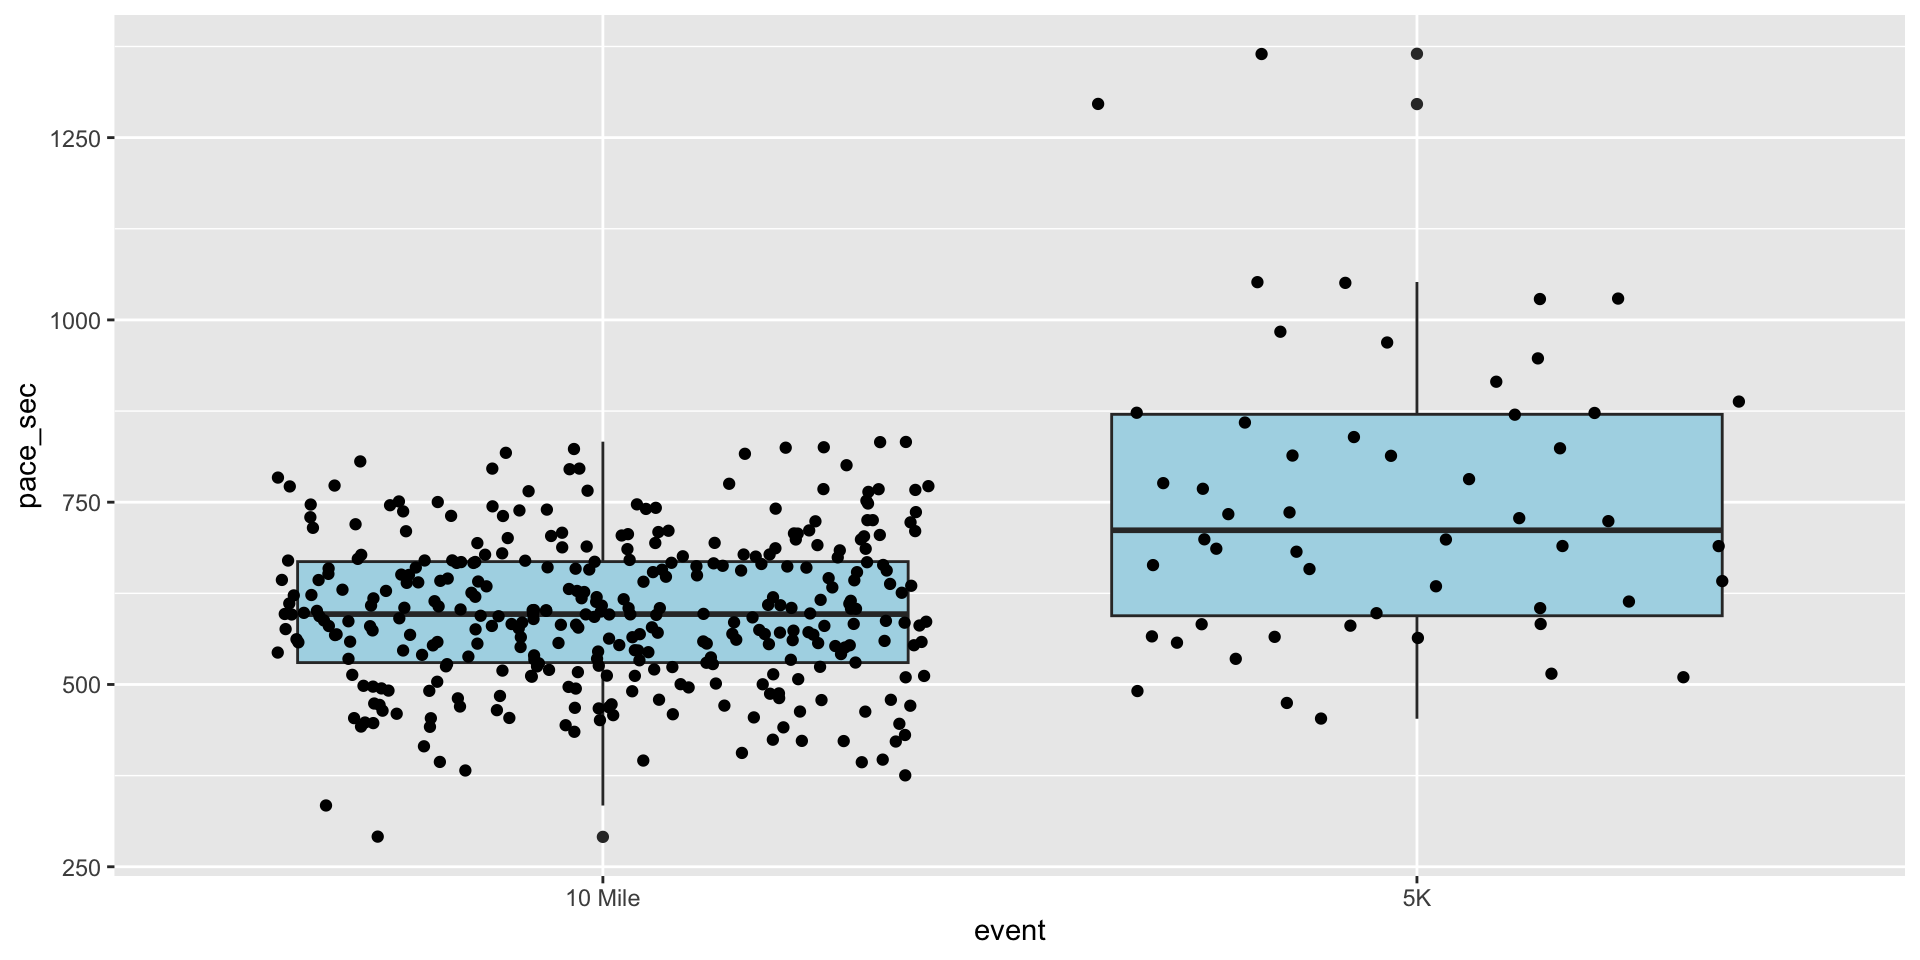
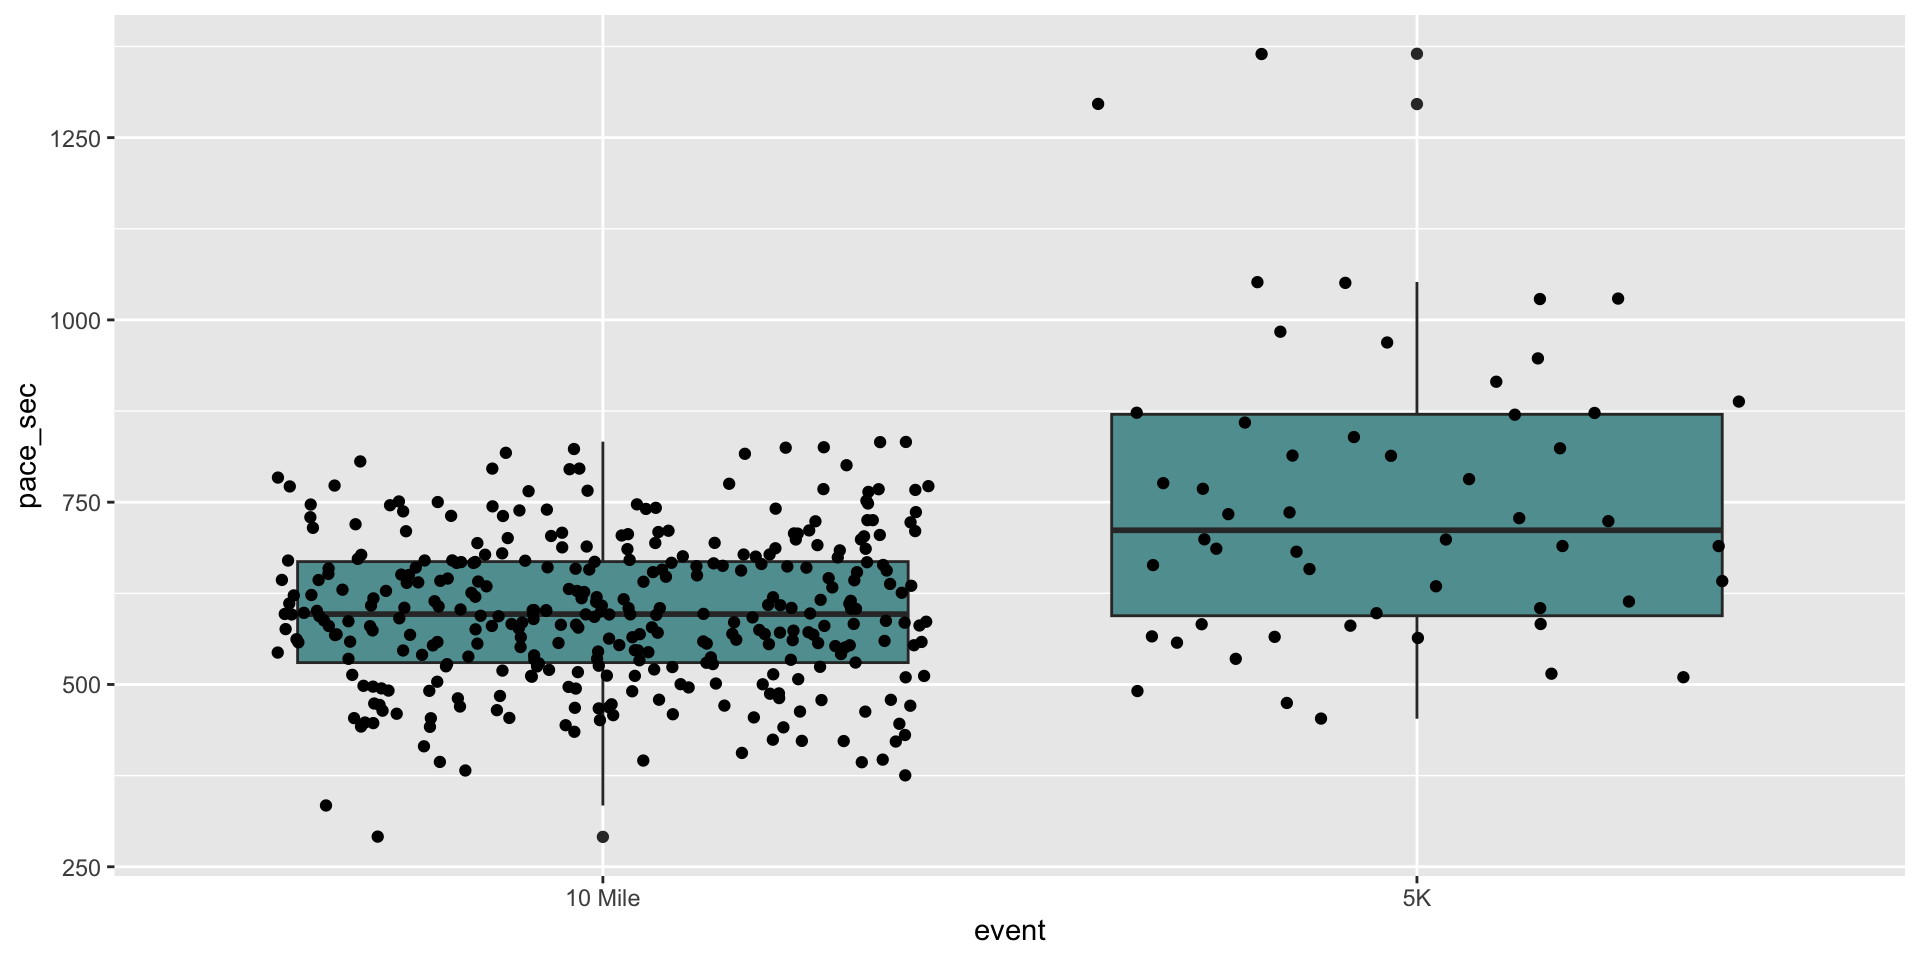
changed geom_stat to geom_point summary

Changed region(s): [[0.5625, 0.4062, 0.9062, 0.6562], [0.1562, 0.5625, 0.5, 0.6875]]

diff --git a/getting_started_fall_2026/Session_5.html b/getting_started_fall_2026/Session_5.html
@@ -456,17 +456,15 @@ S. Kelly | Scholar Support and Data Services | Fall 2026
 <h2>New Function: summarize</h2>
 <p>Be careful! The <code>summarize()</code> function is not the same as the <code>summary()</code> function from Base R. <code>summarize()</code> is similar to the <code>mutate()</code> function. Both create a new variable, but whereas <code>mutate()</code> creates a variable for every row, <code>summarize()</code> creates a variable only for the groups specified in the <code>group_by()</code> function.</p>
 <div class="cell">
-<div class="sourceCode cell-code" id="cb6"><pre class="sourceCode numberSource r number-lines code-with-copy"><code class="sourceCode r"><span id="cb6-1"><a href=""></a><span class="fu">set.seed</span>(<span class="dv">7834</span>)</span>
-<span id="cb6-2"><a href=""></a>run17 <span class="sc">|&gt;</span> </span>
-<span id="cb6-3"><a href=""></a>  <span class="fu">slice_sample</span>(<span class="at">n =</span> <span class="dv">400</span>) <span class="sc">|&gt;</span></span>
-<span id="cb6-4"><a href=""></a>  <span class="fu">group_by</span>(event) <span class="sc">|&gt;</span> </span>
-<span id="cb6-5"><a href=""></a>  <span class="fu">summarize</span>(<span class="at">event_means =</span> <span class="fu">mean</span>(pace_sec, <span class="at">na.rm =</span> T))</span></code><button title="Copy to Clipboard" class="code-copy-button"><i class="bi"></i></button></pre></div>
+<div class="sourceCode cell-code" id="cb6"><pre class="sourceCode numberSource r number-lines code-with-copy"><code class="sourceCode r"><span id="cb6-1"><a href=""></a>run17 <span class="sc">|&gt;</span> </span>
+<span id="cb6-2"><a href=""></a>  <span class="fu">group_by</span>(event) <span class="sc">|&gt;</span> </span>
+<span id="cb6-3"><a href=""></a>  <span class="fu">summarize</span>(<span class="at">event_means =</span> <span class="fu">mean</span>(pace_sec, <span class="at">na.rm =</span> T))</span></code><button title="Copy to Clipboard" class="code-copy-button"><i class="bi"></i></button></pre></div>
 <div class="cell-output cell-output-stdout">
 <pre><code># A tibble: 2 × 2
   event   event_means
   &lt;chr&gt;         &lt;dbl&gt;
-1 10 Mile        587.
-2 5K             778.</code></pre>
+1 10 Mile        586.
+2 5K             763.</code></pre>
 </div>
 </div>
 </section>
@@ -498,11 +496,12 @@ S. Kelly | Scholar Support and Data Services | Fall 2026
 </section>
 <section id="basic-boxplot" class="slide level2">
 <h2>Basic Boxplot</h2>
-<p>Let’s create a basic boxplot with our running dataset. Then we’ll add more features.</p>
+<p>Let’s create a basic boxplot with our running dataset. Then we’ll add more features. We want the same random observations so we’ll <code>set a seed</code>.</p>
 <div class="cell">
-<div class="sourceCode cell-code" id="cb11"><pre class="sourceCode numberSource r number-lines code-with-copy"><code class="sourceCode r"><span id="cb11-1"><a href=""></a>run17 <span class="sc">|&gt;</span> </span>
-<span id="cb11-2"><a href=""></a>  <span class="fu">slice_sample</span>(<span class="at">n =</span> <span class="dv">400</span>) <span class="sc">|&gt;</span> </span>
-<span id="cb11-3"><a href=""></a>  <span class="fu">ggplot</span>(<span class="fu">aes</span>(<span class="at">x =</span> event, <span class="at">y =</span> pace_sec)) <span class="sc">+</span> <span class="fu">geom_boxplot</span>(<span class="at">fill =</span> <span class="st">"lightblue"</span>)</span></code><button title="Copy to Clipboard" class="code-copy-button"><i class="bi"></i></button></pre></div>
+<div class="sourceCode cell-code" id="cb11"><pre class="sourceCode numberSource r number-lines code-with-copy"><code class="sourceCode r"><span id="cb11-1"><a href=""></a><span class="fu">set.seed</span>(<span class="dv">7834</span>)</span>
+<span id="cb11-2"><a href=""></a>run17 <span class="sc">|&gt;</span> </span>
+<span id="cb11-3"><a href=""></a>  <span class="fu">slice_sample</span>(<span class="at">n =</span> <span class="dv">400</span>) <span class="sc">|&gt;</span> </span>
+<span id="cb11-4"><a href=""></a>  <span class="fu">ggplot</span>(<span class="fu">aes</span>(<span class="at">x =</span> event, <span class="at">y =</span> pace_sec)) <span class="sc">+</span> <span class="fu">geom_boxplot</span>(<span class="at">fill =</span> <span class="st">"cadetblue"</span>)</span></code><button title="Copy to Clipboard" class="code-copy-button"><i class="bi"></i></button></pre></div>
 
 </div>
 <img data-src="Session_5_files/figure-revealjs/unnamed-chunk-7-1.png" width="960" class="r-stretch"></section>
@@ -530,9 +529,9 @@ S. Kelly | Scholar Support and Data Services | Fall 2026
 <div class="sourceCode cell-code" id="cb14"><pre class="sourceCode numberSource r number-lines code-with-copy"><code class="sourceCode r"><span id="cb14-1"><a href=""></a><span class="fu">set.seed</span>(<span class="dv">7834</span>)</span>
 <span id="cb14-2"><a href=""></a>run17 <span class="sc">|&gt;</span> </span>
 <span id="cb14-3"><a href=""></a>  <span class="fu">slice_sample</span>(<span class="at">n =</span> <span class="dv">400</span>) <span class="sc">|&gt;</span> </span>
-<span id="cb14-4"><a href=""></a>  <span class="fu">ggplot</span>(<span class="fu">aes</span>(<span class="at">x =</span> event, <span class="at">y =</span> pace_sec)) <span class="sc">+</span> <span class="fu">geom_boxplot</span>(<span class="at">fill =</span> <span class="st">"lightblue"</span>) <span class="sc">+</span></span>
+<span id="cb14-4"><a href=""></a>  <span class="fu">ggplot</span>(<span class="fu">aes</span>(<span class="at">x =</span> event, <span class="at">y =</span> pace_sec)) <span class="sc">+</span> <span class="fu">geom_boxplot</span>(<span class="at">fill =</span> <span class="st">"cadetblue"</span>) <span class="sc">+</span></span>
 <span id="cb14-5"><a href=""></a>  <span class="fu">geom_hline</span>(<span class="at">yintercept =</span> <span class="dv">587</span>, <span class="at">color =</span> <span class="st">"maroon"</span>, <span class="at">size =</span> <span class="dv">2</span>) <span class="sc">+</span> </span>
-<span id="cb14-6"><a href=""></a>  <span class="fu">geom_hline</span>(<span class="at">yintercept =</span> <span class="dv">778</span>, <span class="at">color =</span> <span class="st">"turquoise"</span>, <span class="at">size =</span> <span class="dv">2</span>) </span></code><button title="Copy to Clipboard" class="code-copy-button"><i class="bi"></i></button></pre></div>
+<span id="cb14-6"><a href=""></a>  <span class="fu">geom_hline</span>(<span class="at">yintercept =</span> <span class="dv">778</span>, <span class="at">color =</span> <span class="st">"orange"</span>, <span class="at">size =</span> <span class="dv">2</span>) </span></code><button title="Copy to Clipboard" class="code-copy-button"><i class="bi"></i></button></pre></div>
 
 </div>
 <img data-src="Session_5_files/figure-revealjs/unnamed-chunk-9-1.png" width="960" class="r-stretch"></section>
@@ -544,7 +543,7 @@ S. Kelly | Scholar Support and Data Services | Fall 2026
 <span id="cb15-3"><a href=""></a>  <span class="fu">slice_sample</span>(<span class="at">n =</span> <span class="dv">400</span>) <span class="sc">|&gt;</span> </span>
 <span id="cb15-4"><a href=""></a>  <span class="fu">ggplot</span>(<span class="fu">aes</span>(<span class="at">x =</span> event, <span class="at">y =</span> pace_sec)) <span class="sc">+</span> </span>
 <span id="cb15-5"><a href=""></a>  <span class="fu">geom_boxplot</span>(<span class="at">fill =</span> <span class="st">"cadetblue"</span>) <span class="sc">+</span></span>
-<span id="cb15-6"><a href=""></a>  <span class="fu">stat_summary</span>(<span class="at">fun =</span> mean, <span class="at">geom =</span> <span class="st">"point"</span>, <span class="at">shape =</span> <span class="dv">23</span>, <span class="at">size =</span> <span class="dv">7</span>, <span class="at">fill =</span> <span class="st">"maroon"</span>)</span></code><button title="Copy to Clipboard" class="code-copy-button"><i class="bi"></i></button></pre></div>
+<span id="cb15-6"><a href=""></a>  <span class="fu">geom_point</span>(<span class="at">stat =</span> <span class="st">"summary"</span>, <span class="at">shape =</span> <span class="dv">23</span>, <span class="at">size =</span> <span class="dv">7</span>, <span class="at">fill =</span> <span class="st">"maroon"</span>)</span></code><button title="Copy to Clipboard" class="code-copy-button"><i class="bi"></i></button></pre></div>
 
 </div>
 <img data-src="Session_5_files/figure-revealjs/unnamed-chunk-10-1.png" width="960" class="r-stretch"></section>
@@ -553,7 +552,7 @@ S. Kelly | Scholar Support and Data Services | Fall 2026
 <div class="cell">
 <div class="sourceCode cell-code" id="cb16"><pre class="sourceCode numberSource r number-lines code-with-copy"><code class="sourceCode r"><span id="cb16-1"><a href=""></a>run17 <span class="sc">|&gt;</span> </span>
 <span id="cb16-2"><a href=""></a>  <span class="fu">slice_sample</span>(<span class="at">n =</span> <span class="dv">400</span>) <span class="sc">|&gt;</span> </span>
-<span id="cb16-3"><a href=""></a>  <span class="fu">ggplot</span>(<span class="fu">aes</span>(<span class="at">x =</span> event, <span class="at">y =</span> pace_sec)) <span class="sc">+</span> <span class="fu">geom_boxplot</span>(<span class="at">fill =</span> <span class="st">"lightblue"</span>) <span class="sc">+</span> </span>
+<span id="cb16-3"><a href=""></a>  <span class="fu">ggplot</span>(<span class="fu">aes</span>(<span class="at">x =</span> event, <span class="at">y =</span> pace_sec)) <span class="sc">+</span> <span class="fu">geom_boxplot</span>(<span class="at">fill =</span> <span class="st">"cadetblue"</span>) <span class="sc">+</span> </span>
 <span id="cb16-4"><a href=""></a>  <span class="fu">geom_jitter</span>()</span></code><button title="Copy to Clipboard" class="code-copy-button"><i class="bi"></i></button></pre></div>
 
 </div>
